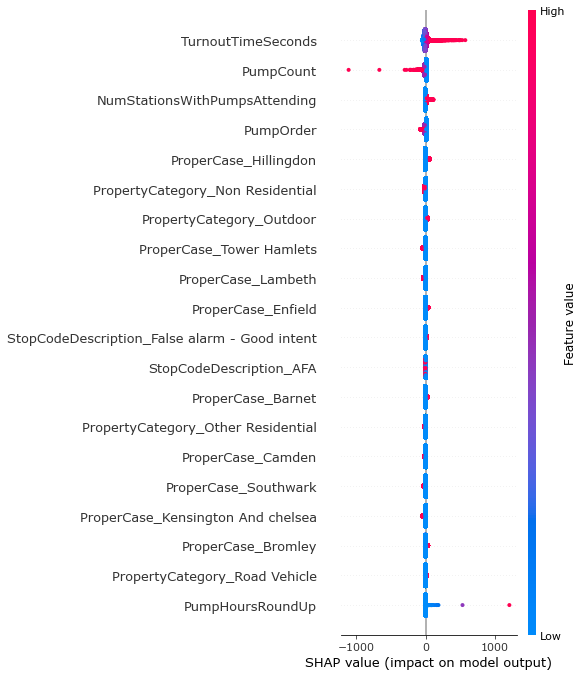
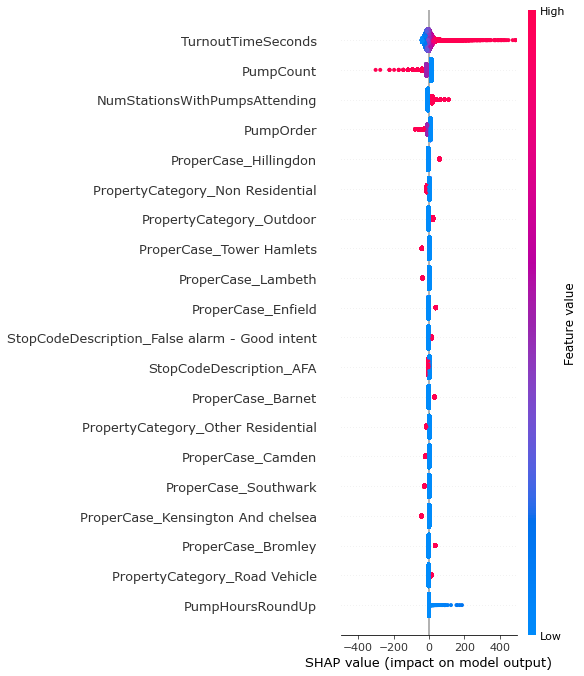
update

Changed region(s): [[0.5856, 0.0, 0.8014, 0.963], [0.8014, 0.0311, 0.8938, 0.0621], [0.7705, 0.932, 0.863, 0.963]]

diff --git a/pages/4_🧱_Interprétabilité.py b/pages/4_🧱_Interprétabilité.py
@@ -8,10 +8,6 @@ st.write("""Maintenant que le modèle de régression linéaire a été sélectio
          """)
 
 
-#st.sidebar.header("Interprétabilité")
-#choix_inter = st.sidebar.selectbox("", ["Shap", "PDP"])
-#st.sidebar.title("Shap")
-
 st.write("## Shap")
 st.write(""" Si l’on veut prendre un exemple, quand la valeur SHAP associée à une modalité particulière d'une variable 
              augmente, cela signifie que la présence ou l'augmentation de cette modalité a une contribution positive à la 
@@ -61,27 +57,24 @@ if choix_rep =='Histogramme horizontal':
                   En effet, il semble logique que la caractéristiques de temps de réponse influence considérablement le temps 
                  d’intervention. """)
         
-    st.write("""Vient ensuite le nombre de pompes utilisées. En effet, plus il y a de pompes près du lieu d’incident,  
-                 plus grandes seront les chances de diminuer le temps d’intervention. Il y va de même pour le nombre de camions 
-                 en service.""")
+    st.write("""Vient ensuite le nombre de pompes utilisées. En effet, plus il y a de pompes près du lieu d’incident,
+                plus grandes seront les chances de diminuer le temps d’intervention.""")
         
-    st.write("""Dans une moindre mesure, le nombre de stations contactées contribue également en ce 
-                 sens que plus de stations seront contactées, plus grandes seront les chances de diminuer le temps d’intervention. """)
-        
-
-    st.write("""On peut également penser que le fait que la propriété soit non résidentielle fait qu’elle est située en centre-ville 
-                 et qu’elle profite d’un plus grand maillage des casernes de pompiers. """)
+    st.write("""Dans une moindre mesure, le nombre de stations intervenant contribue également en ce sens que plus de stations 
+             seront contactées, plus grandes seront les chances de diminuer le temps d’intervention. """)
 
 
-    st.write("""Idem pour les quartiers. Parmi les quartiers conservés, la plupart sont des quartiers centraux autour de la Tamise 
-                 à l’exception de 3 qui sont à la périphérie et vastes. """)        
+    st.write("""Parmi les quartiers conservés, la plupart sont des quartiers centraux autour de la Tamise à l’exception de 
+             3 qui sont à la périphérie et vastes. Les quartiers les plus centraux sont ceux qui contribuent le plus. 
+             On peut penser qu'une localisation de l'incident en centre-ville contribue plus à la prédictabilité de la 
+             variable cible que les quartiers périphériques.  """)        
 
     if choix_rep == "Graphique Shap":
         st.image('Model/feature importances 2 .png', use_column_width=True)
 
-    st.write("""Pour faire écho à ce qui a été dit précédemment sur la variable turnouttime, on constate à quel point elle peut 
-                 contribuer aussi bien à la hausse et à la baisse au temps d’intervention. 0 l’instar de turnouttime, le graphique
-                 montre la grande amplitude d’influence qu’a aussi la variable du nombre de pompes à l’intervention. 
+    st.write("""Pour faire écho à ce qui a été dit précédemment sur la variable _TurnoutTimeSeconds_, on constate à quel point elle peut 
+                 contribuer aussi bien à la hausse et à la baisse au temps d’intervention. A l’instar de _TurnoutTimeSeconds_, 
+                le graphique montre la grande amplitude d’influence qu’a aussi la variable du nombre de pompes à l’intervention. 
                  Elle contribue très positivement et très négativement également. Cela signifie que la variable à expliquer 
                  est très sensible à cette dernière et rejoint le point évoqué sur la magnitude. """)
         

diff --git a/pages/1_🔍_Analyse_des_données.py b/pages/1_🔍_Analyse_des_données.py
@@ -40,7 +40,7 @@ def analyse():
             st.dataframe(pd.read_csv("Data/Incidents_dico.csv", index_col=0))
 
             st.write("###### La table contient 2 227 677 entrées.")
-            st.write(""" Elle contient des détails sur les incidents traités depuis 2009.Elles incluent des informations 
+            st.write(""" Elle contient des détails sur les incidents traités depuis 2009. Elles incluent des informations 
             importantes telles que la date, le lieu de l’incident et le type d’incident traité. Cette base de données constituera 
             la pierre angulaire de notre analyse car elle nous permet de comprendre la nature des situations auxquelles les pompiers 
             de Londres sont confrontés.  
@@ -97,7 +97,7 @@ def analyse():
             st.write(" La règle de gestion est la suivante :")
             st.write("- Très faibles valeurs de NaN => suppression des lignes concernées")
             st.write("- Très fortes valeurs de NaN => suppression des variables concernées")
-            st.write("De plus, parfois certaines variables sont redondantes et apportent la même information.")
+            st.write("Un constat a été fait concernant certaines variables qui sont redondantes et apportent donc la même information. Il convient de les supprimer.")
             st.write("Voici donc un tableau récapitulatif qui reprend la liste des variables dont on se sépare et en détaille les raisons :")
             st.dataframe(pd.read_csv("Data/NaN/Synt_na.csv", index_col=0))
 
@@ -107,8 +107,8 @@ def analyse():
         if choix_gestion_stat == "Incidents":
             st.dataframe(pd.read_csv("Data/Stat_desc_inc.csv", index_col=0))
             st.write("""On constate  qu’en moyenne,  les pompiers mettent 5.25 minutes à arriver sur les lieux de l’incident et 
-                    qu’il faut que 1.3 stations envoient un contingent et que cela représente 1.5 camions. 
-                    La médiane du temps d’intervention reste proche de la moyenne ce qui suggère mois d’asymétrie des données. 
+                    qu’il faut que 1.3 stations interviennent et que cela nécéssite l'utilisation de 1.5 pompes à incendie environ. 
+                    La médiane du temps d’intervention reste proche de la moyenne ce qui suggère moins d’asymétrie des données. 
                     La moyenne étant une mesure de centralité qui est sensible aux valeurs extrêmes et la médiane étant plus robuste aux valeurs extrêmes, leur proximité suggère que les valeurs aberrantes n’ont pas un impact significatif sur la mesure de la centralité en ce qui concerne le temps d’arrivée. 
     """)
             

diff --git a/pages/3_📈_Modélisation.py b/pages/3_📈_Modélisation.py
@@ -5,7 +5,7 @@ import joblib
 import base64
 from sklearn.preprocessing import StandardScaler
 
-# Créer les onglets
+# Onglets
 with st.sidebar:
     st.title('Navigation')
     onglet = st.radio("Choisir un onglet", ["Préparation et rappels", "Modèles étudiés", "Démo"])
@@ -90,8 +90,7 @@ elif onglet == "Modèles étudiés":
         st.write("""- La régression Ridge : elle intègre une pénalité de norme L2 qui a tendance à réduire l’impact des variables les moins 
                  importantes plutôt que de les éliminer complètement. Le modèle Ridge est particulièrement utile lorsque les 
                  variables explicatives sont fortement corrélées entre elles, car il permet de stabiliser les coefficients 
-                 et d'éviter une sensibilité excessive aux fluctuations dans les données. Etant donné les résultats obtenus 
-                 en partie , nous supposons à l’avance que ce modèle ne sera pas d’une grande efficacité.""")
+                 et d'éviter une sensibilité excessive aux fluctuations dans les données.""")
         
     choix_res = st.radio("Résultats", ["Modèles naïfs", "Contributions", "Gridsearch", "Optimisation bayésienne"])
     
@@ -115,10 +114,10 @@ elif onglet == "Modèles étudiés":
                  linéaires et non linéaires entre les variables explicatives et les temps d'intervention.""")
         st.write("""Nous allons donc procéder à une optimisation approfondie des hyperparamètres, via le GridsearchCV  
                  pour garantir la performance du modèle avec une réduction drastique des dimensions et ce sur tous 
-                 les modèles précédemment écartés dans l’optique de trouver les meilleurs modèles pour résoudre notre 
+                 les modèles précédemment sélectionnés dans l’optique de trouver les meilleurs modèles pour résoudre notre 
                  problématique.  La totalité de la base a été utilisée.""") 
         st.image("Model/Gridsearch.png", use_column_width=True)
-        st.write("""On constate que les 3 modèles produisent peu ou prou les mêmes résultats. modèles linéaires sont ceux qui 
+        st.write("""On constate que les 3 modèles produisent peu ou prou les mêmes résultats. Les modèles linéaires sont ceux qui 
                  fournissent les meilleurs résultats compte tenu des postulats de départ. 
                 Nous allons donc procéder à une optimisation bayésienne sur ces derniers, avec les variables sélectionnées.  
 """)

diff --git a/pages/2_🖥_Data_Viz.py b/pages/2_🖥_Data_Viz.py
@@ -128,13 +128,13 @@ if selection == "Données":
         selection_cor = st.sidebar.selectbox("Table", ["Incidents", "Mobilisations"])
         # Heatmap de la matrice de corrélation 
         if selection_cor == "Incidents": 
-            # Chemin vers l'image
+            
             image_path1 = "Images/matrice_correlation_incidents.png"
 
             # Affichage
             st.image(image_path1, caption= "Heatmap des données numériques de la table des incidents", use_column_width=True)
-            st.write("""On constate une zone de corrélation forte dans le carré bas et à droite entre le nombre de camions 
-                    en intervention, le nombre total de camions, le PumpHoursRoundUp et le Notional Cost. Ces variables forment 
+            st.write("""On constate une zone de corrélation forte dans le carré bas et à droite et plus généralement entre les variables qui intègrent 
+                    la notion de pompe à incendie, le PumpHoursRoundUp et le Notional Cost. Ces variables forment 
                     un cluster et pourraient par exemple être traitées ensemble. Entre le PumpHoursRoundUp et le Notional Cost, 
                     la corrélation est proche de 1 ce qui est normal car ils ont une relation de type aX. 
                     Il semble y avoir une corrélation nulle dans le reste du carré ce qui indique une absence de relation linéaire entre les variables. 
@@ -207,10 +207,8 @@ elif selection == "Tests statistiques":
     st.write("### On souhaite savoir si le pas de temps fait que les temps d'intervention diffèrent.")
 
     st.write(""" _L'ANOVA est une technique statistique utilisée pour analyser si les moyennes de trois groupes ou plus sont 
-             égales ou différentes dans le contexte de plusieurs groupes ou conditions. 
-             C'est un outil précieux dans l'analyse des données pour répondre à des questions telles 
-             que "Y a-t-il une différence significative entre les groupes ?" ou 
-             "Quel groupe est significativement différent des autres ?"._""" )
+             égales ou différentes dans le contexte de plusieurs groupes ou conditions et permet de répondre à la question suivante : 
+             "Y a-t-il une différence significative entre les groupes ?.""" )
 
     selection_test = st.sidebar.selectbox("", ["Par mois", "Par jour", "Par heure"])
     if selection_test == "Par mois":
